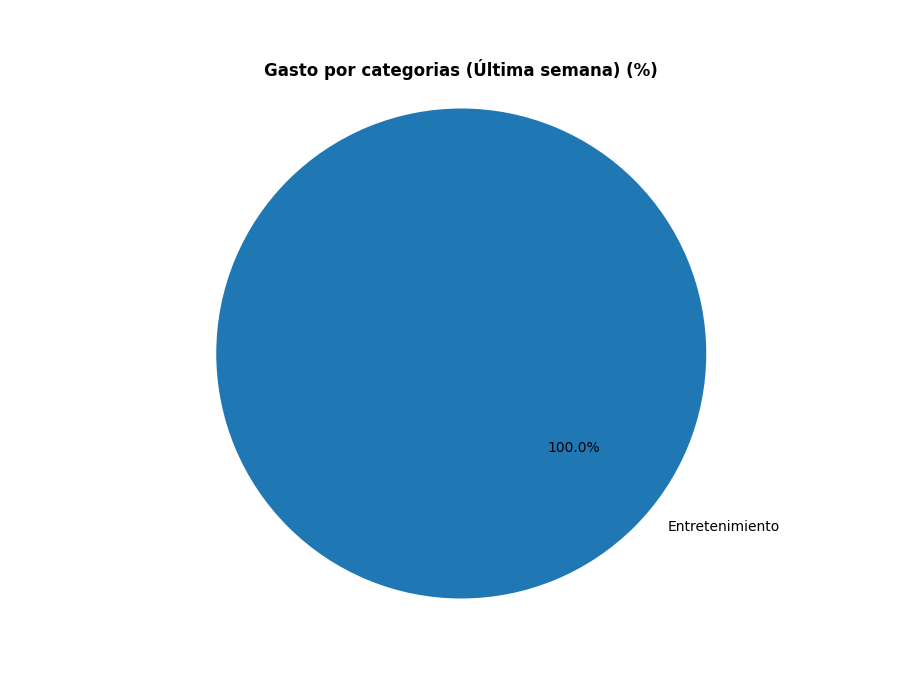
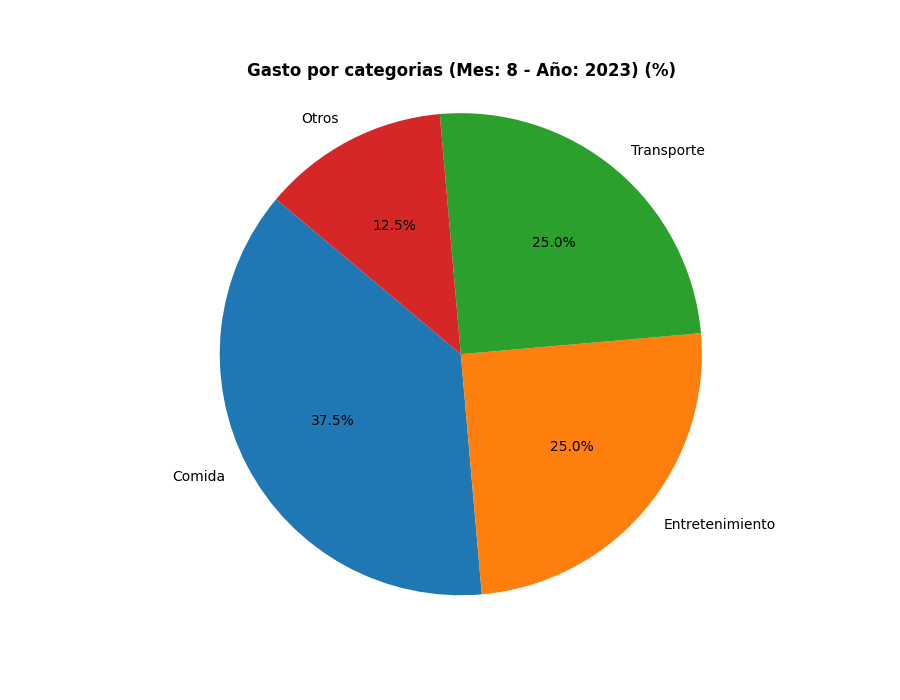
AVANCE

diff --git a/gui.py b/gui.py
@@ -257,25 +257,24 @@ def obtener_seleccion():
         messagebox.showerror("Error", "Los rangos seleccionados no tienen información.")
     
     else:
-        if habilitarFiltrado.get() and filtradoFechas.get()==1:    #Revisar si se filtraron por fechas
-            appendFechas= f" (Mes: {mes} - Año: {año})"
-
-        elif habilitarFiltrado.get() and filtradoFechas.get()==2:  #Revisar si se filtro por semanana, mes, año
-           appendFechas =  " ("+opcionesFiltrado.get()+")"
-        else:
-            appendFechas ="" #No añadir nada
-        
-        #Titulos gráficos:
-        titGraph = dataFrame.createGraph.__defaults__[0]+appendFechas
-        titCat = dataFrame.categPlot.__defaults__[0]+appendFechas
-        titBox = dataFrame.boxGraph.__defaults__[0]+appendFechas
-        titHist = dataFrame.hist.__defaults__[0]+appendFechas
 
         #Elegir la opción
         match seleccion:
             case 1: #Gráficos
 
+                if habilitarFiltrado.get() and filtradoFechas.get()==1:    #Revisar si se filtraron por fechas
+                    appendFechas= f" (Mes: {mes} - Año: {año})"
 
+                elif habilitarFiltrado.get() and filtradoFechas.get()==2:  #Revisar si se filtro por semanana, mes, año
+                    appendFechas =  " ("+opcionesFiltrado.get()+")"
+                else:
+                    appendFechas ="" #No añadir nada
+                
+                #Titulos gráficos:
+                titGraph = dataFrame.createGraph.__defaults__[0]+appendFechas
+                titCat = dataFrame.categPlot.__defaults__[0]+appendFechas
+                titBox = dataFrame.boxGraph.__defaults__[0]+appendFechas
+                titHist = dataFrame.hist.__defaults__[0]+appendFechas
 
                 
                 opc=tipoGrafico.get()
@@ -318,6 +317,8 @@ def obtener_seleccion():
             case 3: #Ver data-Frame
                 df=dataFrame.section
                 new_window = Toplevel()
+                new_window.geometry("800x400")  # Establece el tamaño de la ventana a 400 píxeles de ancho y 300 píxeles de alto
+
                 new_window.iconbitmap("iconos/tabla.ico")
                 new_window.title("DataFrame:")
 
@@ -425,9 +426,10 @@ def toggle_listbox():
     else:
         filtradoDeDatosForget()
 
+#Elegir función para filtrado simple:
 def chooseFilter():
     op = opcionesFiltrado.get()
-
+    print(op)
     if op not in opcionesFil:
         messagebox.showerror("Error", "Debe seleccionar un rango valido.")
 
@@ -446,144 +448,164 @@ def chooseFilter():
 
         botonesGrafico(NORMAL)
 
+#FILTRADO SIMPLE:
 def filtradoSimpleFunc():
     global opcionesFiltrado, opcionesFiltradoLabel, opcionesFiltradoBoton
     print("LLAMANDO filtradoSimple")
-    try:
-        checkbox.grid_forget()
-        labelMes.grid_forget()
-        labelAño.grid_forget()
-        mesEntry.grid_forget()
-        añoEntry.grid_forget()
+    print(filtradoFechas.get())
 
-        buttonDone.grid_forget()
-        filtradoDeDatosForget()
+    disable()
+
+    try:
+        borrarSimple()
     except: pass
 
-    #Inh
-    if habilitarFiltrado.get():
-        opcionesFiltrado = ttk.Combobox(root, values=opcionesFil)
-        opcionesFiltrado.grid(row=6, column=2, padx=5, pady=5)
+    try:
+        borrarAvanzado()
+    except: pass
 
-        opcionesFiltradoLabel = Label(root, text="Opción de filtrado")
-        opcionesFiltradoLabel.grid(row=6, column=1, pady=5)
+    opcionesFiltrado = ttk.Combobox(root, values=opcionesFil)
+    opcionesFiltrado.grid(row=6, column=2, padx=5, pady=5)
 
-        opcionesFiltradoBoton = Button(root, text="Seleccionar rango", bg="green", fg="white", width=18, command=chooseFilter)
-        opcionesFiltradoBoton.grid(row=7, column=2, padx=5, pady=5)
-    else:
-        opcionesFiltrado.grid_forget()
-        opcionesFiltradoLabel.grid_forget()
-        opcionesFiltradoBoton.grid_forget()
+    opcionesFiltradoLabel = Label(root, text="Opción de filtrado")
+    opcionesFiltradoLabel.grid(row=6, column=1, pady=5)
+
+    opcionesFiltradoBoton = Button(root, text="Seleccionar rango", bg="green", fg="white", width=18, command=chooseFilter)
+    opcionesFiltradoBoton.grid(row=7, column=2, padx=5, pady=5)
 
 
+#FILTRADO AVANZADO:
 def filtradoAvanzadoFunc():
-    try:
-        filtradoAvanzado.grid_forget()
-        filtradoSimple.grid_forget()
-        opcionesFiltrado.grid_forget()
-        opcionesFiltradoLabel.grid_forget()
-        opcionesFiltradoBoton.grid_forget()
-    except: pass
-    unableFilter()
+    global checkbox_var, checkbox, labelAño, labelMes, mesEntry, añoEntry, buttonDone, yrs, listboxMeses, listboxAños
+    print("LLAMANDO filtradoAvanzado")
+    print(filtradoFechas.get())
 
-    checkButt()
+    disable()
+
+    try:
+        borrarAvanzado()
+    except: pass
+    
+    try:
+        borrarSimple()
+    except: pass
+
+
+    yrs = dataFrame.getYearsList()   # Lista de años
+
+
+    listboxMeses = ttk.Combobox(root, values=meses)
+    listboxAños =  ttk.Combobox(root,  values=yrs)
+
+    checkbox_var = IntVar()
+    checkbox = Checkbutton(root, text="Mostrar Lista de Opciones", variable=checkbox_var, command=toggle_listbox)
+    checkbox.grid(row=2, column=2)
+
+    labelMes = Label(root, text="Mes seleccionado:")
+    labelAño = Label(root, text="Año seleccionado:")
+
+    labelMes.grid(row=6, column=0)
+    labelAño.grid(row=6, column=1)
+
+    mesEntry = Label(root, text="----", bg="white", padx=30)
+    mesEntry.grid(row=7, column=0)
+
+    añoEntry = Label(root, text="----", bg="white", padx=30)
+    añoEntry.grid(row=7, column=1)
+
+    buttonDone = Button(root, text="Listo", relief=RAISED, font=("Helvetica", 12, "bold"), command=submitDates )
+    buttonDone.grid(row=7, column=2)
 
 
 #Filtrar datos check:
 def checkButt():
-    global checkbox_var, checkbox, labelAño, labelMes, mesEntry, añoEntry, buttonDone, yrs, listboxMeses, listboxAños
-
-    filtradoFechas.set(1)
-
-    yrs = dataFrame.getYearsList()   # Lista de años
 
     print(filtradoFechas.get())
 
-    #Inh
+
+
+    #Se quiere filtrar datos:
     if habilitarFiltrado.get():
-        filtradoAvanzado.grid(row=1, column=1 )
-        filtradoSimple.grid(row=1, column=2 )
+        disable()
 
-        
-
-        listboxMeses = ttk.Combobox(root, values=meses)
-        listboxAños =  ttk.Combobox(root,  values=yrs)
-
-
-        radio_buttonGraficos.config(state=DISABLED)
-        radio_buttonEstadistics.config(state=DISABLED)
-        radio_buttonDF.config(state=DISABLED)
-        boton_conti.config(state=DISABLED)
-
+        #INHABILITAR GRÁFICOS
         if(elegirFuncion.get()==1):
             botonesGrafico(DISABLED)
 
+        #OPCIONES DE FILTRADO
+        filtradoAvanzado.grid(row=1, column=1 )
+        filtradoSimple.grid(row=1, column=2 )
 
-        checkbox_var = IntVar()
-        checkbox = Checkbutton(root, text="Mostrar Lista de Opciones", variable=checkbox_var, command=toggle_listbox)
-        checkbox.grid(row=2, column=2)
+        filtradoAvanzadoFunc()
 
-        labelMes = Label(root, text="Mes seleccionado:")
-        labelAño = Label(root, text="Año seleccionado:")
-
-        labelMes.grid(row=6, column=0)
-        labelAño.grid(row=6, column=1)
-
-        mesEntry = Label(root, text="----", bg="white", padx=30)
-        mesEntry.grid(row=7, column=0)
-
-        añoEntry = Label(root, text="----", bg="white", padx=30)
-        añoEntry.grid(row=7, column=1)
-
-        buttonDone = Button(root, text="Listo", relief=RAISED, font=("Helvetica", 12, "bold"), command=submitDates )
-        buttonDone.grid(row=7, column=2)
 
     else:
-        try:
-            filtradoAvanzado.grid_forget()
-            filtradoSimple.grid_forget()
-        except: pass
+        filtradoAvanzado.grid_forget()
+        filtradoSimple.grid_forget()
         unableFilter()
 
+#INHABILITAR OPCIONES:
+def disable():
+    radio_buttonGraficos.config(state=DISABLED)
+    radio_buttonEstadistics.config(state=DISABLED)
+    radio_buttonDF.config(state=DISABLED)
+    boton_conti.config(state=DISABLED)
 
+#Quitar opciones de filtrado:
 def unableFilter():
     dataFrame.section = dataFrame.df
 
+    #Rehabilitar el uso de botones
     radio_buttonGraficos.config(state=NORMAL)
     radio_buttonEstadistics.config(state=NORMAL)
     radio_buttonDF.config(state=NORMAL)
     boton_conti.config(state=NORMAL)
 
+    #Rehabilitar opciones de gráfico
     if(elegirFuncion.get()==1):
         botonesGrafico(NORMAL)
 
+
+    #BORRADO---------------------------------------------------------------------
     filtradoAvanzado.grid_forget()
     filtradoSimple.grid_forget()
 
-    try:
-        checkbox.grid_forget()
-        labelMes.grid_forget()
-        labelAño.grid_forget()
-        mesEntry.grid_forget()
-        añoEntry.grid_forget()
+    #FILTRADO AVANZADO:
+    if filtradoFechas.get()==1:
+       borrarAvanzado()
 
-        buttonDone.grid_forget()
+    #FILTRADO SIMPLE:
+    else:
+        borrarSimple()
+    
+def borrarAvanzado():
+    for widget in root.winfo_children():
+        if widget ==checkbox or widget ==labelMes or widget ==labelAño or widget ==mesEntry or widget ==añoEntry or widget ==buttonDone:
+            widget.grid_forget()
+            
+    if checkbox_var.get()==1:
         filtradoDeDatosForget()
-    except: pass
-        
+
+def borrarSimple():
+    for widget in root.winfo_children():
+        if widget ==opcionesFiltrado or widget ==opcionesFiltradoLabel or widget ==opcionesFiltradoBoton:
+            widget.grid_forget()
+
+
 #Mostrar opciones de uso del analísis de datos:
 def showDataAnalisys():
     global habilitarFiltrado, elegirFuncion, habilitarGraf, radio_buttonGraficos, radio_buttonEstadistics, radio_buttonDF, botonFiltrado, boton_conti
     global filtradoAvanzado, filtradoSimple, filtradoFechas
 
+    # Variables de control
+    filtradoFechas = IntVar()
+    filtradoFechas.set(1)
+    
     habilitarFiltrado = BooleanVar()
     
     elegirFuncion = IntVar()
     habilitarGraf = IntVar()
 
-    # Variables de control
-    filtradoFechas = IntVar()
-    filtradoFechas.set(1)
 
     botonFiltrado = Checkbutton(root, text="Filtrar datos",   variable=habilitarFiltrado, command=checkButt)
     botonFiltrado.grid(row=1, column=0, sticky='w')
@@ -611,7 +633,8 @@ def showDataAnalisys():
 
     filtradoSimple = Radiobutton(root, text="Filtrado simple", variable=filtradoFechas, value=2, command=filtradoSimpleFunc, **estilo_radio)
 
-#Ca
+
+#Cambiar bins del histograma
 def watch(locBin, window):
     global bins
     binEntry = locBin.get()
@@ -866,12 +889,9 @@ def botonesGraficoForget():
 
 #Borrar existencia de los widgets de filtrado por fecha
 def filtradoDeDatosForget():
-    myLabel0.grid_forget()
-    myLabel1.grid_forget()
-    listboxMeses.grid_forget()
-    listboxAños.grid_forget()
-    buttonDates1.grid_forget()
-    buttonDates2.grid_forget()
+    for widget in root.winfo_children():
+        if widget ==myLabel0 or widget ==myLabel1 or widget ==listboxMeses or widget ==listboxAños or widget ==buttonDates1 or widget ==buttonDates2:
+            widget.grid_forget()
 
 # Función para salir de la aplicación
 def rst():

diff --git a/dataAnalisys.py b/dataAnalisys.py
@@ -37,6 +37,9 @@ class processData:
         else:
             print("CONFIGURACIÓN INVALIDA")
 
+        self.df['Fecha'] = pd.to_datetime(self.df['Fecha'])
+        
+
         
     #addCategories: Método para añadir categorias
     #inputs:
@@ -111,7 +114,6 @@ class processData:
     #    -mes: Mes a elegir
     #    -año: Año a elegir
     def chooseSegment(self, mes, año):
-        self.df['Fecha'] = pd.to_datetime(self.df['Fecha'])
         #self.section = self.df[(self.df['Fecha'].dt.year == año) & (self.df['Fecha'].dt.month == mes)]
         self.section =self.df[(self.df['Fecha'].dt.year == año) & (self.df['Fecha'].dt.month == mes)]
     
@@ -119,6 +121,7 @@ class processData:
     #inputs:
     #    -option: Rango de tiempo (semana, mes, año)
     def chooseSegmentSimple(self, option):
+
         hoy = dt.datetime.now()
         
         match option:
